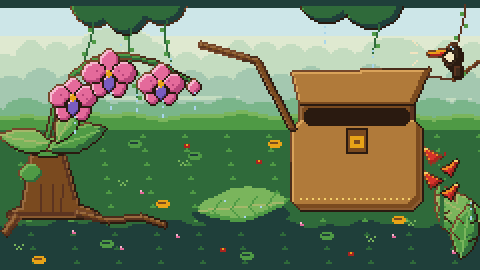
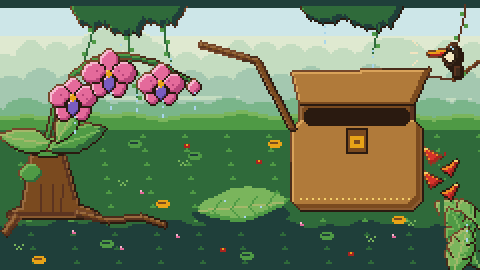
Gather tab: per-land scene art (WIP snapshot 4)
Claude-Session: https://claude.ai/code/session_01PZZqg9Zd4H1eZ2jvsqnjHb

diff --git a/aseprite-source/scenes-pil/gather_rainforest.py b/aseprite-source/scenes-pil/gather_rainforest.py
@@ -171,6 +171,9 @@ def scene():
     can = blank()
     for (x0, x1, y1) in ((36, 58, 12), (52, 74, 16), (70, 92, 11), (150, 176, 10), (172, 200, 13)):
         can |= ell(x0, -10, x1, y1)
+        for lx in range(x0 + 4, x1 - 3, 6):            # pointed leaf tips hanging off the clump
+            ly = y1 - 2 - abs(lx - (x0 + x1) // 2) // 3
+            can |= poly([(lx - 2, ly - 1), (lx + 2, ly - 1), (lx + 1, ly + 4)])
     o = cv.obj()
     o.part(can, DEEP, d=2)
     o.draw()
@@ -189,9 +192,9 @@ def scene():
     vine(cv, 230, 2, 36, 1.1, BARK['s'], LEAF['s'])
     toucan(cv, 222, 22)
     cv.fill(line([(208, 22), (206, 20)]) | line([(208, 26), (205, 26)]) | line([(208, 30), (206, 32)]), '#f2e4c0')  # its call
-    big_leaf(cv, 236, 122, 34, 16, -120, MOSS, slits=3)
-    big_leaf(cv, 242, 112, 28, 14, -150, LEAF, slits=2)
-    _, tip = big_leaf(cv, 230, 128, 26, 12, -80, MOSS, slits=2)
+    big_leaf(cv, 244, 116, 30, 15, -150, LEAF, slits=2)
+    big_leaf(cv, 240, 134, 34, 16, -118, MOSS, slits=3)
+    _, tip = big_leaf(cv, 226, 136, 24, 12, -72, LEAF, slits=2)
     drip(cv, tip[0], tip[1] + 6)
     hx0 = 220
     cv.fill(rect(hx0, 74, hx0 + 1, 112), DEEP['b'])

diff --git a/aseprite-source/scenes-pil/gather_wetland.py b/aseprite-source/scenes-pil/gather_wetland.py
@@ -146,7 +146,7 @@ def scene():
     # pools: the heron's pool (left), the landing pool, a little one bottom right
     pl = ell(4, 84, 92, 112) | ell(20, 98, 70, 120)
     pool(cv, pl, rings=((24, 104, 5),), seed=3)
-    pm = ell(84, 92, 156, 120)
+    pm = ell(84, 92, 150, 120)
     pool(cv, pm, rings=(), seed=7)
     pr = ell(196, 108, 244, 126)
     pool(cv, pr, rings=((222, 119, 4),), seed=11)
@@ -181,8 +181,7 @@ def scene():
     cv.fill(lp, '#4f9a45')
     cv.fill(lp & ~shift(lp, 1, 1), '#7ab55c')
     cv.fill(lp & ~shift(lp, -1, -1), '#2f6a3a')
-    for (a, b) in (((120, 105), (110, 99)), ((120, 105), (134, 99)), ((120, 105), (141, 106)), ((120, 105), (128, 111))):
-        cv.fill(line([a, b]) & ~(ell(108, 101, 132, 109)) & shift(lp, 0, 0) & ~(lp & ~shift(lp, -1, -1)), '#2f6a3a')
+    cv.fill(line([(120, 105), (131, 100)]) & lp & shift(lp, -1, -1), '#2f6a3a')
     cv.dots([(141, 100), (139, 99)], '#e46a9b')
     cv.dots([(140, 98)], '#f6b8cf')
     draw_satchel(cv)
